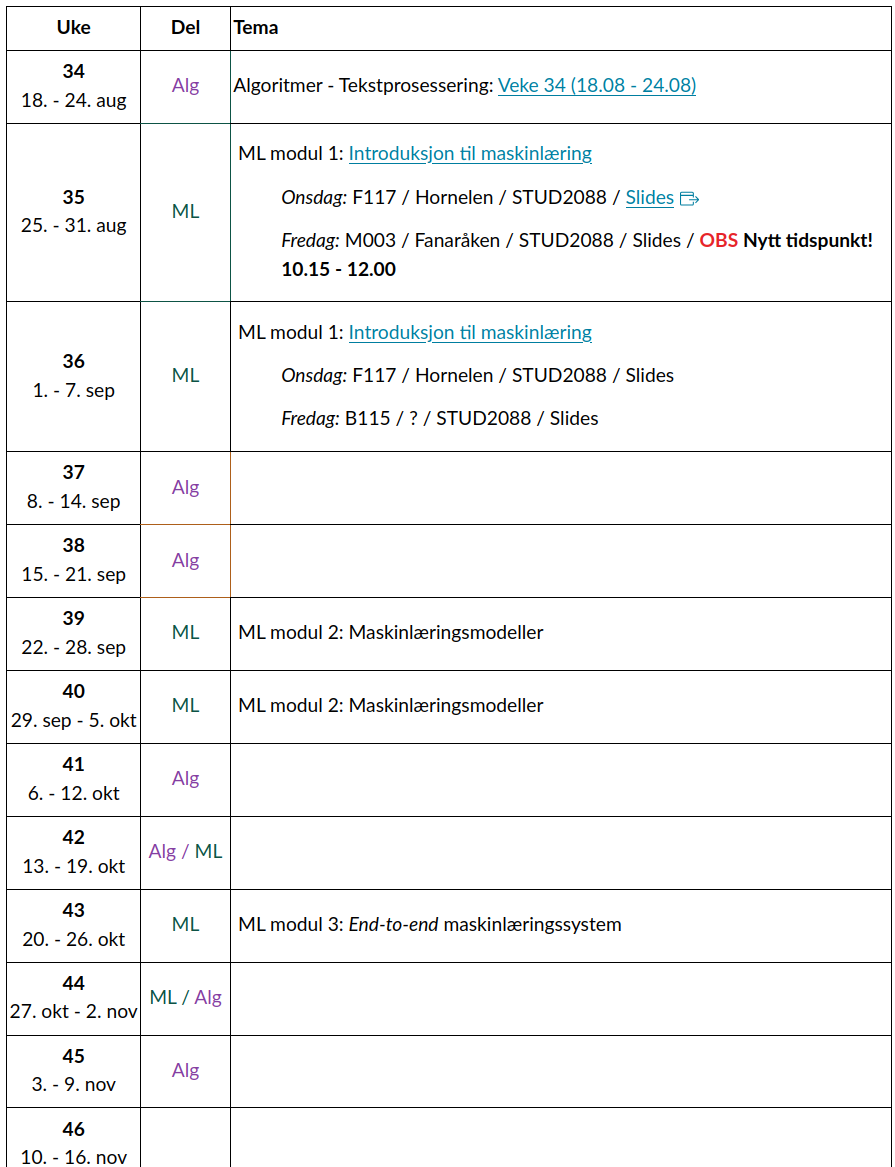
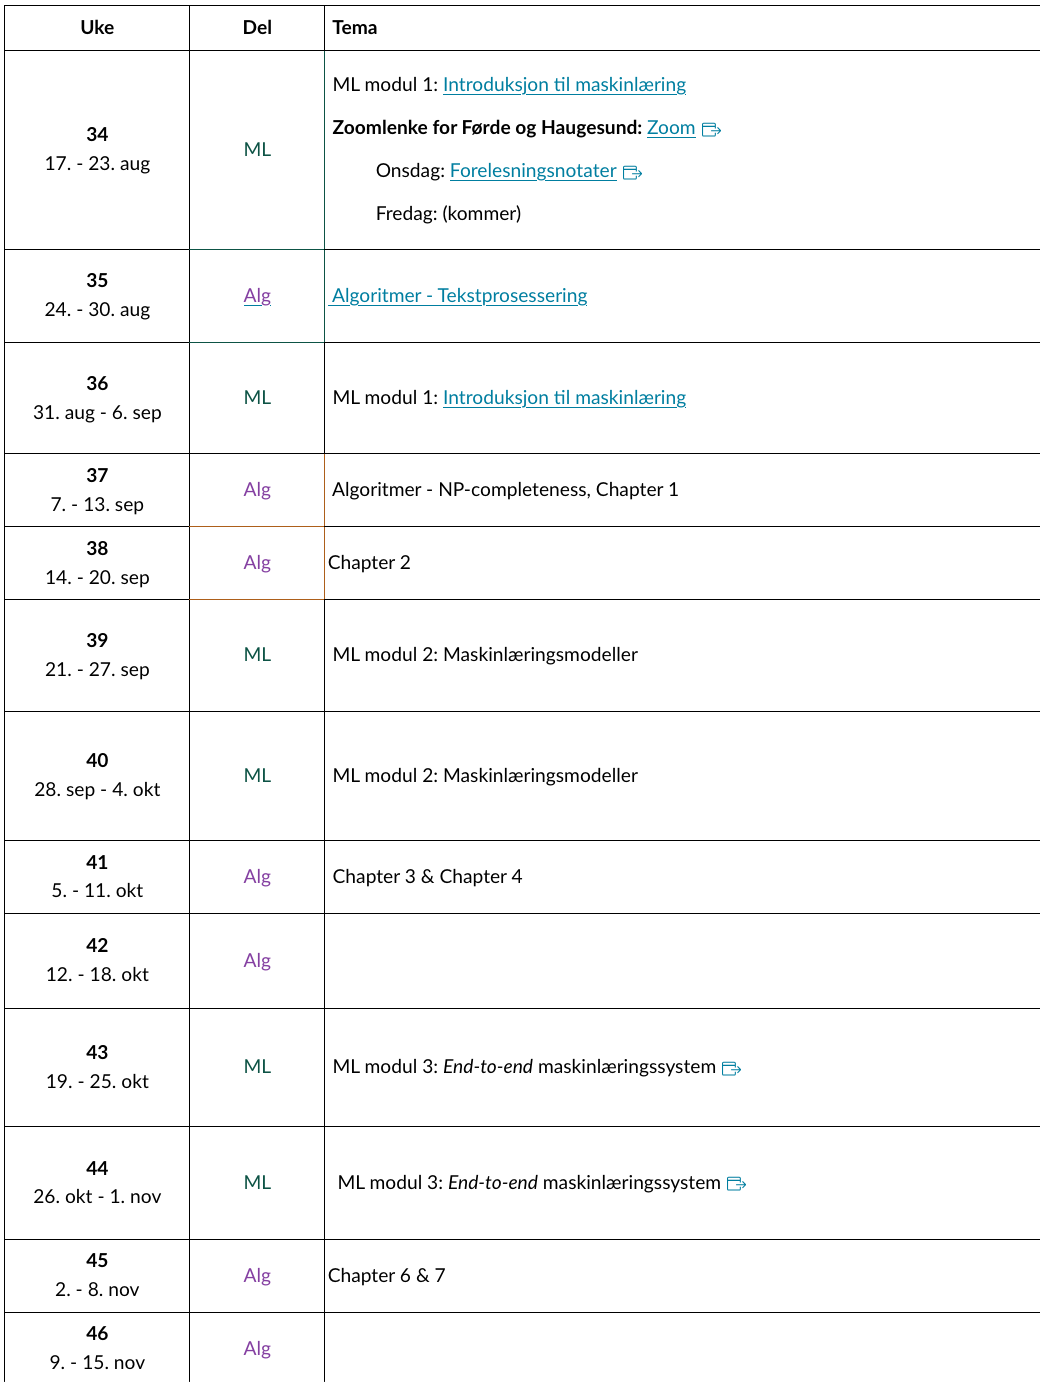
Update lecture 2

diff --git a/docs/slides/1-intro/2-python.html b/docs/slides/1-intro/2-python.html
@@ -214,11 +214,6 @@ sma@hvl.no
 </section>
 <section id="section" class="slide level2" data-background-image="figures/emnebeskrivelse.png" data-menu-title="Course description">
 <h2></h2>
-</section>
-<section id="recording-from-wednesday" class="slide level2">
-<h2>Recording from Wednesday</h2>
-<p>Posted on <a href="https://hvl.instructure.com/courses/32015">Canvas</a></p>
-<p><img data-src="figures/canvas.png" class="absolute img-shadow" style="top: 20%; left: 10%; width: 90%; "></p>
 <!----------------------------------------------------------------------------->
 </section>
 <section id="practical-information" class="slide level2">
@@ -242,11 +237,7 @@ sma@hvl.no
 </div>
 <div class="fragment" data-fragment-index="3">
 <ul>
-<li><strong>Lab</strong>: Work (and get help) with exercises
-<ul>
-<li>Bergen: Wednesdays 12.15, E403 &amp; E443</li>
-<li>Førde / Haugesund: Mondays 12.15 / 13.15</li>
-</ul></li>
+<li><strong>Lab</strong>: Work (and get help) with exercises, Wednesdays 12:15</li>
 </ul>
 </div>
 <div class="fragment" data-fragment-index="4">
@@ -271,8 +262,8 @@ sma@hvl.no
 <ul>
 <li>General <strong>info</strong>:
 <ul>
-<li>Announcements on <a href="https://hvl.instructure.com/courses/32015">Canvas</a></li>
-<li>Discord</li>
+<li>Announcements on <a href="https://hvl.instructure.com/courses/35853">Canvas <i class="bi bi-box-arrow-up-right"></i></a></li>
+<li><a href="https://discord.gg/fYu4yh7kp">Discord <i class="bi bi-discord"></i></a></li>
 </ul></li>
 </ul>
 </div>
@@ -283,17 +274,17 @@ sma@hvl.no
 </section>
 <section id="proposed-oblig-dates" class="slide level2">
 <h2>Proposed oblig dates</h2>
-<div class="absolute" style="top: 0%; left: 60%; width: 600px; ">
+<div class="absolute" style="top: -3%; left: 60%; width: 600px; ">
 <p><img data-src="figures/schedule.png"></p>
 </div>
-<div class="absolute" style="top: 47%; right: 45%; ">
-<p><span>14.</span> September: <strong>Quiz</strong> 🎓 <i class="bi bi-arrow-right"></i></p>
+<div class="absolute" style="top: 37%; right: 45%; ">
+<p><span>11.</span> September: <strong>Quiz</strong> 🎓 <i class="bi bi-arrow-right"></i></p>
 </div>
-<div class="absolute" style="text-align: right;top: 67%; right: 45%; ">
-<p><span>4.</span> October: <strong>Competition</strong> 🏅<i class="bi bi-arrow-right"></i> <br><span class="color-text-muted"><em>(not mandatory)</em></span> </p>
+<div class="absolute" style="text-align: right;top: 61%; right: 45%; ">
+<p><span>2.</span> October: <strong>Competition</strong> 🏅<i class="bi bi-arrow-right"></i> <br><span class="color-text-muted"><em>(not mandatory)</em></span> </p>
 </div>
-<div class="absolute" style="top: 91%; right: 45%; ">
-<p><span>2.</span> November: <strong>Project hand-in</strong> 📜 <i class="bi bi-arrow-right"></i></p>
+<div class="absolute" style="top: 93%; right: 45%; ">
+<p><span>29.</span> October: <strong>Project hand-in</strong> 📜 <i class="bi bi-arrow-right"></i></p>
 </div>
 <!----------------------------------------------------------------------------->
 </section>
@@ -545,20 +536,20 @@ zip()</code></pre>
 <div class="columns">
 <div class="column" style="width:42%;">
 <p>Importing code from libraries:</p>
-<div class="code-copy-outer-scaffold"><div class="sourceCode" id="cb17"><pre class="sourceCode python code-with-copy"><code class="sourceCode python"><span id="cb17-1"><a aria-hidden="true" tabindex="-1"></a><span class="co"># Import everything</span></span>
-<span id="cb17-2"><a aria-hidden="true" tabindex="-1"></a><span class="im">import</span> math</span>
-<span id="cb17-3"><a aria-hidden="true" tabindex="-1"></a>math.pi</span>
-<span id="cb17-4"><a aria-hidden="true" tabindex="-1"></a><span class="co"># returns 3.141592653589793</span></span>
-<span id="cb17-5"><a aria-hidden="true" tabindex="-1"></a></span>
-<span id="cb17-6"><a aria-hidden="true" tabindex="-1"></a><span class="co"># Import just what you need</span></span>
-<span id="cb17-7"><a aria-hidden="true" tabindex="-1"></a><span class="im">from</span> math <span class="im">import</span> pi</span>
-<span id="cb17-8"><a aria-hidden="true" tabindex="-1"></a>pi</span>
-<span id="cb17-9"><a aria-hidden="true" tabindex="-1"></a><span class="co"># returns 3.141592653589793</span></span>
-<span id="cb17-10"><a aria-hidden="true" tabindex="-1"></a></span>
-<span id="cb17-11"><a aria-hidden="true" tabindex="-1"></a><span class="co"># Import it under a different name</span></span>
-<span id="cb17-12"><a aria-hidden="true" tabindex="-1"></a><span class="im">from</span> math <span class="im">import</span> pi <span class="im">as</span> coolnumber</span>
-<span id="cb17-13"><a aria-hidden="true" tabindex="-1"></a>coolnumber</span>
-<span id="cb17-14"><a aria-hidden="true" tabindex="-1"></a><span class="co"># returns 3.141592653589793</span></span></code></pre></div><button title="Copy to Clipboard" class="code-copy-button"><i class="bi"></i></button></div>
+<div class="code-copy-outer-scaffold"><div class="sourceCode" id="cb17" data-code-line-numbers="1-4|6-9|11-14|"><pre class="sourceCode numberSource python number-lines code-with-copy"><code class="sourceCode python"><span id="cb17-1"><a aria-label="1"></a><span class="co"># Import everything</span></span>
+<span id="cb17-2"><a aria-label="2"></a><span class="im">import</span> math</span>
+<span id="cb17-3"><a aria-label="3"></a>math.pi</span>
+<span id="cb17-4"><a aria-label="4"></a><span class="co"># returns 3.141592653589793</span></span>
+<span id="cb17-5"><a aria-label="5"></a></span>
+<span id="cb17-6"><a aria-label="6"></a><span class="co"># Import just what you need</span></span>
+<span id="cb17-7"><a aria-label="7"></a><span class="im">from</span> math <span class="im">import</span> pi</span>
+<span id="cb17-8"><a aria-label="8"></a>pi</span>
+<span id="cb17-9"><a aria-label="9"></a><span class="co"># returns 3.141592653589793</span></span>
+<span id="cb17-10"><a aria-label="10"></a></span>
+<span id="cb17-11"><a aria-label="11"></a><span class="co"># Import it under a different name</span></span>
+<span id="cb17-12"><a aria-label="12"></a><span class="im">from</span> math <span class="im">import</span> pi <span class="im">as</span> coolnumber</span>
+<span id="cb17-13"><a aria-label="13"></a>coolnumber</span>
+<span id="cb17-14"><a aria-label="14"></a><span class="co"># returns 3.141592653589793</span></span></code></pre></div><button title="Copy to Clipboard" class="code-copy-button"><i class="bi"></i></button></div>
 </div><div class="column" style="width:5%;">
 
 </div><div class="column" style="width:53%;">
@@ -628,7 +619,7 @@ zip()</code></pre>
 <p><code>scikit-learn</code> has a big selection of machine learning models and functions for data processing and evaluation</p>
 </div></div>
 </section>
-<section id="section-3" class="slide level2" data-background-iframe="https://numpy.org/learn/" data-background-interactive="true" data-menu-title="Numpy docs">
+<section id="section-3" class="slide level2" data-background-iframe="https://numpy.org/" data-background-interactive="true" data-menu-title="Numpy docs">
 <h2></h2>
 </section>
 <section id="numpy-arrays" class="slide level2">
@@ -718,7 +709,7 @@ zip()</code></pre>
 </div>
 </div></div>
 <div class="fragment">
-<p>In cases the shapes of two arrays don’t match, numpy will try to <span class="color-purple"><em>make</em></span> them match<br>(aka <em>broadcasting</em>):</p>
+<p>In cases the shapes of two arrays don’t match, numpy will try to <span class="color-orange"><em>make</em></span> them match<br>(aka <em>broadcasting</em>):</p>
 <div class="code-copy-outer-scaffold"><div class="sourceCode" id="cb29" data-code-line-numbers="1-3|1-6"><pre class="sourceCode numberSource python number-lines code-with-copy"><code class="sourceCode python"><span id="cb29-1"><a aria-label="1"></a><span class="co"># I type this</span></span>
 <span id="cb29-2"><a aria-label="2"></a><span class="op">&gt;&gt;&gt;</span> a <span class="op">*</span> <span class="dv">2</span></span>
 <span id="cb29-3"><a aria-label="3"></a>array([<span class="dv">2</span>, <span class="dv">4</span>, <span class="dv">6</span>])</span>
@@ -766,7 +757,7 @@ zip()</code></pre>
 </div>
 <div style="margin-top: 5%;">
 <blockquote>
-<p>A computer program is said to learn from experience <strong>E</strong> with respect to some task <strong>T</strong> and some performance measure <strong>P</strong>, if its performance on <strong>T</strong>, as measured by <strong>P</strong>, improves with experience <strong>E</strong>.</p>
+<p>A computer program is said to learn from experience&nbsp;<strong>E</strong> with respect to some task&nbsp;<strong>T</strong> and some performance measure&nbsp;<strong>P</strong>, if its performance on&nbsp;<strong>T</strong>, as measured by&nbsp;<strong>P</strong>, improves with experience&nbsp;<strong>E</strong>.</p>
 </blockquote>
 <p><em>Tom Mitchell, 1997</em></p>
 </div>
@@ -774,7 +765,7 @@ zip()</code></pre>
 </section>
 <section id="different-types-of-machine-learning" class="slide level2">
 <h2>Different types of machine learning</h2>
-<div class="columns" style="font-size: 0.8em;">
+<div class="columns" style="font-size: 1.0em;">
 <div class="column" style="width:33%;">
 <p><strong>Supervised learning:</strong></p>
 <p>Each datapoint is assigned to a label, which the model tries to predict.</p>
@@ -792,7 +783,7 @@ zip()</code></pre>
 </section>
 <section id="different-types-of-machine-learning-1" class="slide level2">
 <h2>Different types of machine learning</h2>
-<div class="columns" style="font-size: 0.8em;">
+<div class="columns" style="font-size: 1.0em;">
 <div class="column" style="width:33%;">
 <p><strong>Supervised learning:</strong></p>
 <div class="fragment semi-fade-out" data-fragment-index="1">
@@ -902,7 +893,7 @@ zip()</code></pre>
 </section>
 <section id="about-data" class="slide level2">
 <h2>About data</h2>
-<div style="font-size: 0.8em;">
+<div style="font-size: 1.0em;">
 <p><em>Structured</em> data can be represented in a table:</p>
 </div>
 <table class="caption-top">
@@ -975,17 +966,17 @@ zip()</code></pre>
 </tr>
 </tbody>
 </table>
-<div class="fragment absolute color-blue-dark" style="top: 22%; left: 2%; ">
+<div class="fragment absolute color-blue-dark" style="top: 20%; left: 6%; ">
 <p>features <i class="bi-arrow-right"></i></p>
 </div>
 <div class="fragment">
-<div class="absolute color-blue-dark" style="top: 51%; left: 25%; ">
+<div class="absolute color-blue-dark" style="top: 51%; left: 29%; ">
 <p><i class="bi-arrow-up"></i><br>binary</p>
 </div>
-<div class="absolute color-blue-dark" style="top: 51%; left: 34.5%; ">
+<div class="absolute color-blue-dark" style="top: 51%; left: 36.5%; ">
 <p><i class="bi-arrow-up"></i><br>categorical</p>
 </div>
-<div class="absolute color-blue-dark" style="top: 43%; left: 77%; ">
+<div class="absolute color-blue-dark" style="top: 38%; left: 73%; ">
 <p><i class="bi-arrow-up-left"></i><br>missing data</p>
 </div>
 </div>
@@ -997,7 +988,7 @@ zip()</code></pre>
 <p>data point (<span class="math inline">\(\mathbf{x}_2\)</span>)</p>
 </div>
 </div>
-<div class="fragment absolute" style="font-size: 0.8em;bottom: 0px; ">
+<div class="fragment absolute" style="font-size: 1.0em;bottom: 0px; ">
 <p>Data are often expressed in mathematical notation as an <span class="math inline">\(N \times M\)</span>-matrix <span class="math inline">\(\mathbf{X}\)</span>, where</p>
 <ul>
 <li><span class="math inline">\(N\)</span> is the number of data points</li>
@@ -1029,12 +1020,12 @@ zip()</code></pre>
 </div>
 <div class="fragment" data-fragment-index="4">
 <ul>
-<li><a href="https://paperswithcode.com/datasets">PapersWithCode Datasets</a></li>
+<li><a href="https://huggingface.co/datasets">Hugging Face Datasets</a></li>
 </ul>
 </div>
 <div class="fragment" data-fragment-index="5">
 <ul>
-<li><a href="https://huggingface.co/datasets">Hugging Face datasets</a></li>
+<li><a href="https://www.openml.org/search?type=data&amp;status=active">OpenML datasets</a></li>
 </ul>
 </div>
 <div class="fragment" data-fragment-index="6">
@@ -1054,10 +1045,10 @@ zip()</code></pre>
 <p><img data-src="figures/google-dataset-search.png"></p>
 </div>
 <div class="fragment absolute" data-fragment-index="4" style="top: 0%; right: -10%; width: 60%; ">
-<p><img data-src="figures/paperswithcode-datasets.png"></p>
+<p><img data-src="figures/huggingface-datasets.png"></p>
 </div>
 <div class="fragment absolute" data-fragment-index="5" style="top: 0%; right: -10%; width: 60%; ">
-<p><img data-src="figures/huggingface-datasets.png"></p>
+<p><img data-src="figures/openml-datasets.png"></p>
 </div>
 <div class="fragment absolute" data-fragment-index="6" style="top: 0%; right: -10%; width: 60%; ">
 <p><img data-src="figures/ssb.png"></p>
@@ -1102,7 +1093,7 @@ zip()</code></pre>
 </ul>
 </div>
 </div>
-<div class="fragment fade-in-then-out absolute" data-fragment-index="6" style="top: -7%; right: -6%; width: 62%; ">
+<div class="fragment fade-in-then-out absolute" data-fragment-index="6" style="top: -7%; right: -6%; width: 60%; ">
 <p><img data-src="figures/noisy-data.png"></p>
 </div>
 <div class="fragment fade-in-then-semi-out" data-fragment-index="7">
@@ -1164,7 +1155,7 @@ zip()</code></pre>
 </div></div>
 <!-- :::{.fragment fragment-index=3 .absolute top="70%" left="10%"} -->
 <div class="fragment" data-fragment-index="3">
-<div class="absolute" style="top: 40%; left: 18%; width: 64%; ">
+<div class="absolute" style="top: 35%; left: 18%; width: 64%; ">
 <svg viewbox="0 0 4195 246" xmlns="http://www.w3.org/2000/svg" xlink="http://www.w3.org/1999/xlink" space="preserve" overflow="hidden">
 <g transform="translate(-198 -1076)"> <path d="M323.375 1167.42 452.569 1169.58 604.071 1172.51 755.028 1175.79 905.306 1179.37 1054.77 1183.21 1203.29 1187.25 1350.72 1191.46 1496.93 1195.77 1641.79 1200.15 1713.67 1202.34 1785.17 1204.54 1856.25 1206.72 1926.91 1208.89 1997.14 1211.04 2066.91 1213.17 2136.2 1215.26 2205 1217.32 2273.3 1219.33 2341.07 1221.29 2408.31 1223.19 2474.98 1225.03 2541.08 1226.8 2606.59 1228.5 2671.49 1230.12 2735.77 1231.65 2799.41 1233.09 2862.38 1234.44 2924.68 1235.67 2986.29 1236.8 3047.18 1237.81 3107.36 1238.7 3166.78 1239.47 3225.45 1240.09 3283.34 1240.58 3340.44 1240.92 3396.72 1241.11 3452.18 1241.14 3506.79 1241.01 3506.75 1241.01 3560.54 1240.71 3560.5 1240.71 3613.41 1240.23 3613.36 1240.23 3665.38 1239.57 3665.33 1239.57 3716.44 1238.72 3716.39 1238.73 3766.57 1237.68 3766.52 1237.68 3815.75 1236.44 3815.7 1236.44 3863.97 1235 3863.91 1235 3911.21 1233.34 3911.15 1233.34 3957.45 1231.46 3957.38 1231.46 4002.67 1229.36 4002.6 1229.37 4046.86 1227.03 4046.79 1227.04 4090 1224.47 4089.92 1224.48 4132.07 1221.67 4131.99 1221.67 4173.06 1218.61 4172.97 1218.62 4212.95 1215.31 4212.84 1215.32 4251.71 1211.75 4251.6 1211.76 4266.77 1210.22 4269.09 1233.02 4253.86 1234.56 4214.89 1238.15 4174.81 1241.46 4133.64 1244.53 4091.4 1247.34 4048.11 1249.92 4003.77 1252.25 3958.41 1254.36 3912.04 1256.24 3864.69 1257.9 3816.36 1259.35 3767.07 1260.59 3716.84 1261.64 3665.69 1262.49 3613.63 1263.15 3560.68 1263.63 3506.86 1263.93 3452.16 1264.06 3396.64 1264.03 3340.3 1263.84 3283.15 1263.5 3225.2 1263.01 3166.49 1262.38 3107.02 1261.62 3046.8 1260.73 2985.87 1259.72 2924.22 1258.59 2861.89 1257.35 2798.89 1256.01 2735.22 1254.56 2670.92 1253.03 2606 1251.41 2540.47 1249.71 2474.35 1247.94 2407.66 1246.1 2340.41 1244.19 2272.63 1242.23 2204.32 1240.22 2135.51 1238.17 2066.21 1236.08 1996.44 1233.95 1926.21 1231.8 1855.55 1229.63 1784.46 1227.44 1712.97 1225.25 1641.1 1223.05 1496.26 1218.68 1350.07 1214.36 1202.66 1210.16 1054.18 1206.12 904.76 1202.28 754.53 1198.7 603.627 1195.42 452.187 1192.49 322.993 1190.33ZM385.318 1229.92 300.447 1178.5 386.986 1129.93C392.504 1126.84 399.489 1128.8 402.586 1134.32 405.683 1139.84 403.72 1146.82 398.201 1149.92L328.792 1188.87 329.122 1169.08 397.194 1210.32C402.606 1213.6 404.335 1220.65 401.056 1226.06 397.777 1231.47 390.731 1233.2 385.318 1229.92ZM4200.22 1178.24 4290.55 1219.32 4210.33 1277.73C4205.22 1281.46 4198.05 1280.33 4194.33 1275.21 4190.6 1270.1 4191.73 1262.93 4196.84 1259.21L4261.18 1212.35 4263.19 1232.05 4190.73 1199.1C4184.97 1196.48 4182.42 1189.69 4185.04 1183.93 4187.66 1178.17 4194.46 1175.62 4200.22 1178.24Z" fill="#009688"></path></g>
 </svg>

diff --git a/docs/slides/1-intro/1-intro.html b/docs/slides/1-intro/1-intro.html
@@ -270,7 +270,7 @@ sma@hvl.no
 <ul>
 <li>General <strong>info</strong>:
 <ul>
-<li>Announcements on <a href="https://hvl.instructure.com/courses/32015">Canvas</a></li>
+<li>Announcements on <a href="https://hvl.instructure.com/courses/35853">Canvas</a></li>
 <li>Discord</li>
 </ul></li>
 </ul>
